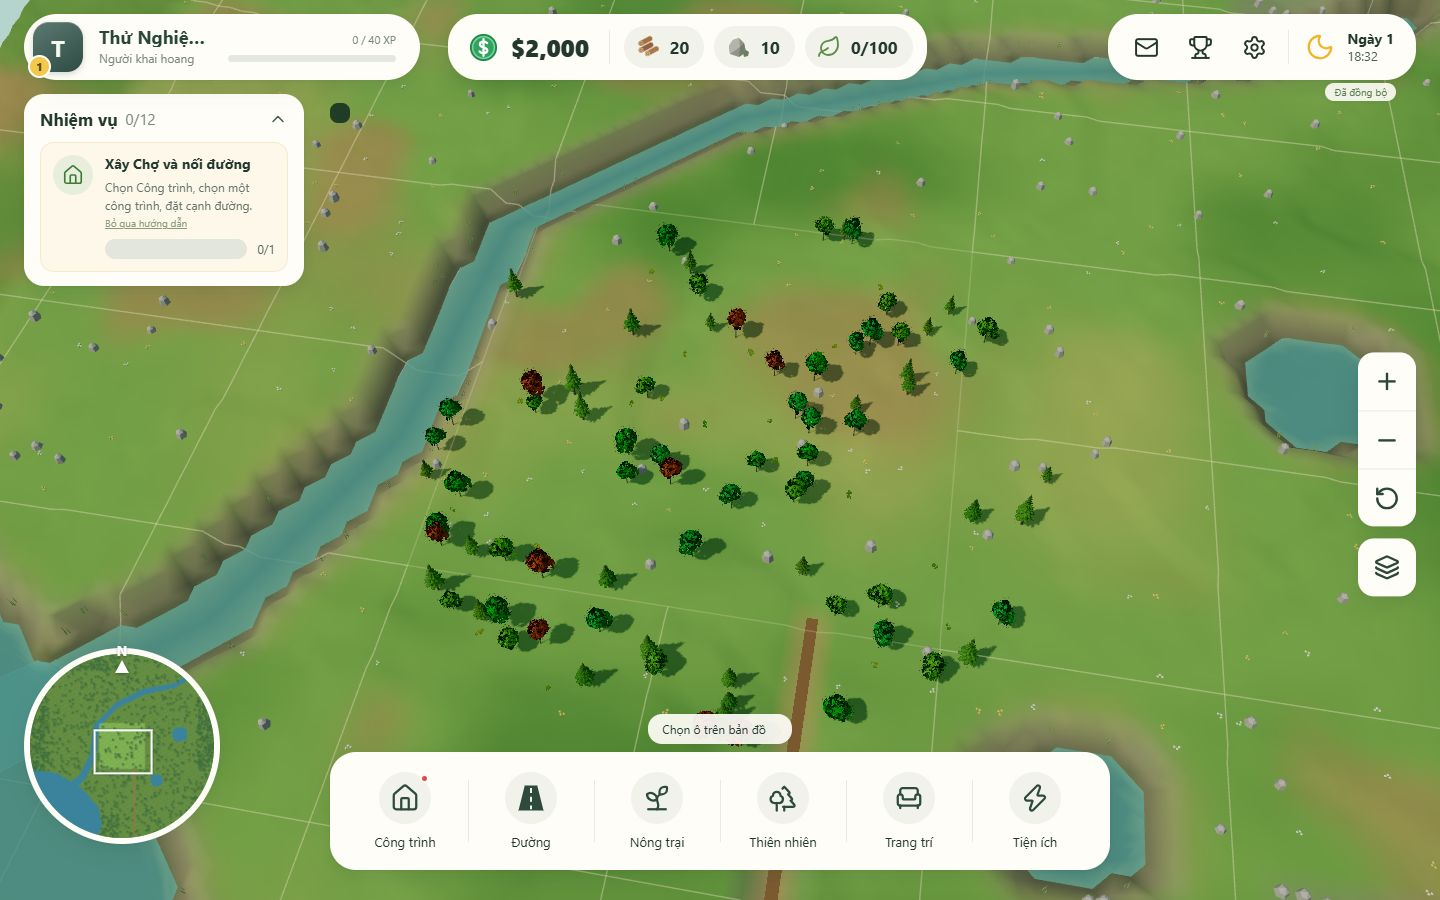
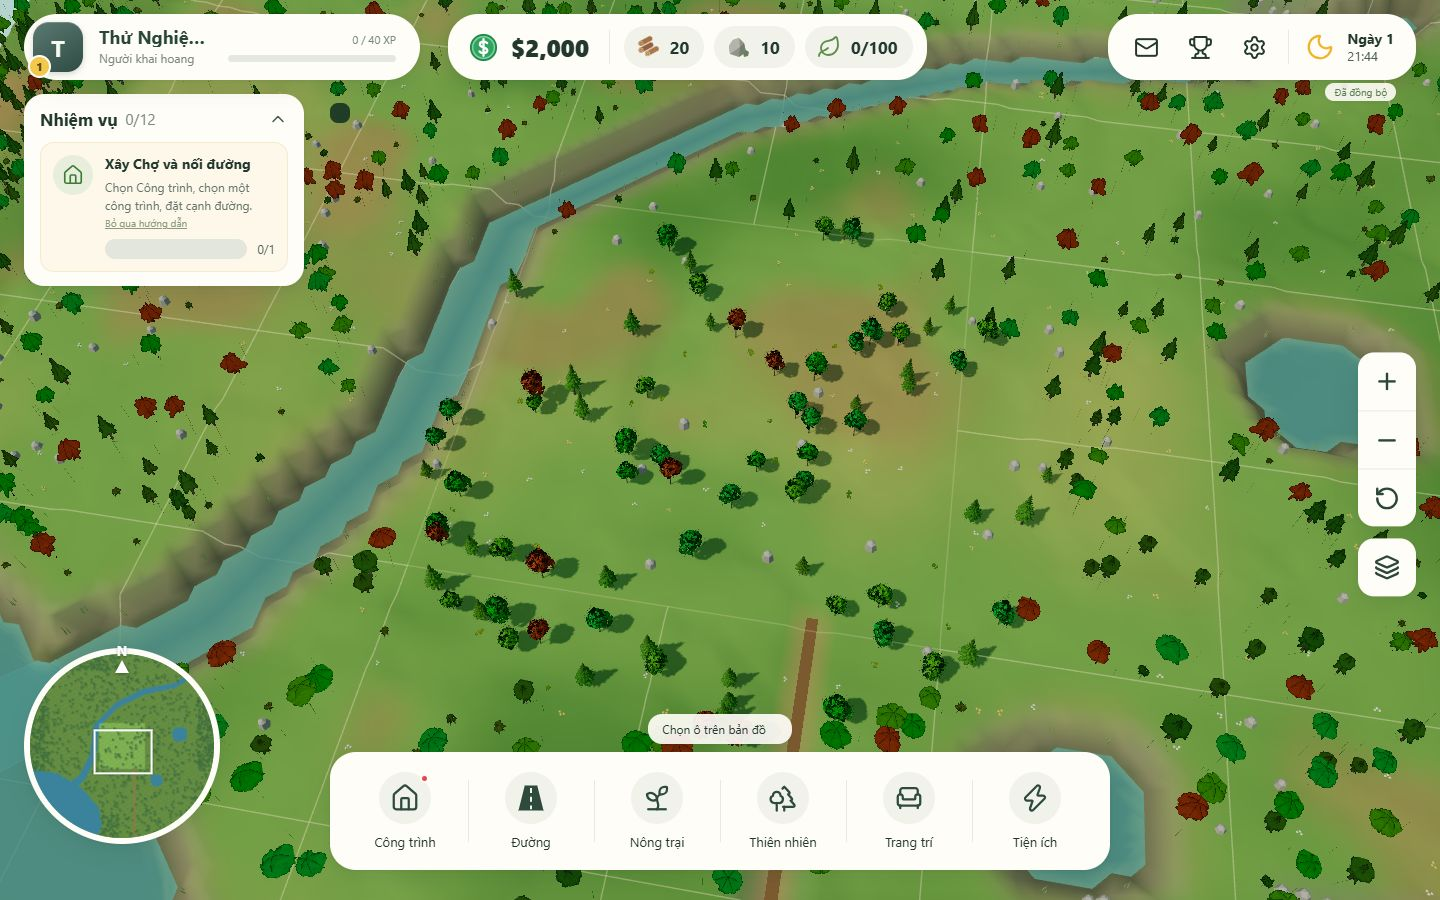
docs(d030): review — rebuild report sections 10-11, E2E evidence after fix 3
The fix 3 rewrite had dropped the fix 1-2 history, left section 11 empty, lost
punctuation to '?' and said fix 3 was not deployed. Rewritten from verified data:
root causes, coverage/brightness table across fixes, full-world budgets, byte-level
deploy check (local = docker = tunnel), full D030 commit list. G2 13/13 and G3 26/26
re-run after fix 3 (the fix rounds had not re-run them).

diff --git a/docs/reports/D030-trees.md b/docs/reports/D030-trees.md
@@ -138,23 +138,95 @@ Kiểm tra bằng mắt (mỗi kết luận kèm ảnh trong `docs/evidence/g4/t
   + nhãn trong game). Nếu thương mại hóa cần rà soát thêm về share-alike cho asset nhúng trong build game.
 - **Ngân sách city cao**: 241 calls / 534,874 tris — còn dư 59 calls / ~965k tris; nếu thêm nội dung môi trường
   cần giữ N=160/60 m hoặc hạ tam giác mức gần.
-- **Billboard từ trên cao** (pitch 75) mỏng — tradeoff của kỹ thuật 3 mặt phẳng đứng; nếu cần cải thiện: thêm 1
+- ~~**Billboard từ trên cao** (pitch 75) mỏng~~ — đã xử lý ở fix 2–3 (tấm ngang chụp từ trên, ẩn dần theo góc nhìn; mục 10). Ghi chú cũ: tradeoff của kỹ thuật 3 mặt phẳng đứng; nếu cần cải thiện: thêm 1
   mặt phẳng ngang với ảnh chụp từ trên (+2 tam giác).
 - **Đơn định**: capture billboard dùng Chrome + SwiftShader — nếu nâng Chrome lớn có thể lệch pixel → `--check`
   sẽ bắt và chỉ cần chạy lại import để làm mới.
 
+
+## 10. Sửa lỗi mức xa (fix 1 → fix 3)
+
+> Mục này được người review viết lại ngày 2026-10-11 sau khi bản fix 3 ghi đè mất nội dung fix 1–2, để trống mục 11
+> và còn sót ký tự hỏng. Mọi số liệu dưới đây đã được kiểm chứng lại trên máy (xem 10.4).
+
+### 10.1 Fix 1 — atlas mức xa trống (`c7c5194`, `1f81008`, `fc1a820`, `6f05d66`)
+
+- **Lỗi**: ngoài khoảng 160 cây mức gần quanh camera, rừng trên toàn map biến mất; ở đồ họa thấp (chỉ dùng mức xa)
+  mất gần hết cây. Báo cáo gốc (mục 1–5) đã ghi PASS sai cho phần này.
+- **Nguyên nhân gốc**: `captureBillboards` trong `scripts/import-trees.mjs` chỉ truyền `{ margin }` vào trang chụp,
+  trong khi trang dùng `light.elevationDeg`, nên góc ngẩng thành `NaN`, camera thành `NaN` và mọi ảnh chụp trống.
+  12 file `*_far.glb` chỉ nặng khoảng 2.872 byte. `--check` vẫn PASS vì script đơn định tái tạo đúng ảnh trống đó.
+- **Sửa**: truyền nguyên `PARAMETERS.capture`, `throw` khi tham số không hợp lệ; thêm cổng QC: mỗi tile độ phủ alpha
+  10–80%, ít nhất 2 màu, PNG ≥ 8 KB; thêm `scripts/tree-lod-qa.mjs` (chỉ số phủ cây far/near ≥ 0,6) và hook debug
+  `__debug.treeLod`, `__debug.envVisible`.
+- **Còn sót sau fix 1** (phát hiện khi review): farm `overview-75` far/near = **0,543 < 0,6 (FAIL)** nhưng không được
+  báo; bản sửa **chưa được deploy** (Docker và tunnel vẫn trả file 2.872 byte) dù báo cáo ghi đã deploy.
+
+### 10.2 Fix 2 — tấm ngang nhìn từ trên, atlas bụi nhỏ (`b0c4746`, `e8b3c81`, `44593f1`, `b6358ae`, `9b42243`, `b1a0807`, `baea1b1`)
+
+- Tile 3 của atlas (trước đây chép tile 0) dùng cho ảnh chụp từ trên xuống; mức xa thêm 1 tấm ngang ở 62% chiều cao
+  (6 → 8 tam giác, vẫn 1 draw call mỗi lô). Bụi mức xa dùng tile 128 px: khoảng 300 KB → 23 KB.
+- Chỉ số phủ far/near: city 0,944 / 1,153; farm 0,854 / 1,108 (4/4 PASS). Deploy đã xác minh theo byte.
+- **Còn sót sau fix 2** (phát hiện khi review): tấm ngang lộ thành hình "cái ô" hoặc "cây nấm" khi nhìn nghiêng; tán xa tối hơn hẳn
+  tán gần; mục 10 của báo cáo bị mất dấu tiếng Việt (ký tự thành `?`).
+
+### 10.3 Fix 3 — bỏ hiệu ứng "cái ô", khớp màu (`d2e74cd`, `34c07de`, `ed87070`, `53d9231`)
+
+- Tấm ngang ẩn hoặc hiện theo góc nhìn tới **từng instance** (`smoothstep` 40°–60°): nhìn nghiêng thì ẩn, nhìn từ trên thì hiện.
+- Nguyên nhân tán tối: billboard mức xa vẫn nhận ánh sáng của game trong khi texture đã chụp unlit, nên bị chiếu sáng hai lần.
+  Sửa: material mức xa chuyển sang unlit, RGB atlas nhân 0,62 để khớp độ sáng mức gần.
+- Thêm cổng QC độ sáng (chênh ≤ 15%) và sắc màu (chênh ≤ 20°) vào `tree-lod-qa.mjs`.
+
+| Bản đồ / góc | Phủ far/near (fix 1 → fix 2 → fix 3) | Độ sáng far / near | Chênh sáng | Chênh hue | Kết quả |
+|---|---|---:|---:|---:|---|
+| City oblique-45 | 0,728 → 0,944 → 0,787 | 63,3 / 70,6 | −10,3% | 1,9° | PASS |
+| City overview-75 | 0,614 → 1,153 → 1,087 | 73,2 / 82,1 | −10,9% | 0,0° | PASS |
+| Farm oblique-45 | 0,657 → 0,854 → 0,710 | 63,2 / 69,1 | −8,5% | 3,0° | PASS |
+| Farm overview-75 | **0,543 (FAIL)** → 1,108 → 1,057 | 69,1 / 75,9 | −9,0% | 0,9° | PASS |
+
+Ảnh bằng chứng: `docs/evidence/g4/trees/lod-zoom-40/110/220.jpg` (không còn hình "cái ô", ranh giới gần/xa khó nhận ra),
+`docs/evidence/g4/trees/lod-qa/{city,farm}-{oblique-45,overview-75}-{far,near}.png` (tán tròn, màu gần với mức gần).
+So sánh cùng góc trước D030: `git show e41bea2:docs/evidence/g4/full-world/farm-high-overview.jpg`.
+
+### 10.4 QA sau fix 3 (người review chạy lại trên máy)
+
+| # | Kiểm tra | Kết quả |
+|---|---|---|
+| 1 | `node scripts/import-trees.mjs --check` / `node scripts/import-model-pack.mjs --check` | PASS / PASS |
+| 2 | `pnpm check` | PASS — 725/725 test |
+| 3 | `pnpm test:api` / `g2-e2e` / `g3-e2e` | 33/33, 13/13, 26/26 PASS (E2E không được chạy lại trong các lượt fix; người review đã chạy lại sau fix 3) |
+| 4 | `tree-lod-qa.mjs` | 4/4 PASS (bảng 10.3) |
+| 5 | `g4-full-world.mjs` | mọi `checks` = true (bảng dưới) |
+| 6 | Mã hóa báo cáo | đọc bằng Node UTF-8, không còn ký tự hỏng |
+
+| Bản đồ × đồ họa (overview-75) | Draw call | Tam giác | FPS | p95 (ms) |
+|---|---:|---:|---:|---:|
+| City cao | 241 | 538.058 | 41 | 27,6 |
+| City thấp | 108 | 413.708 | 56 | 18,6 |
+| Farm cao | 251 | 271.914 | 57 | 19,3 |
+| Farm thấp | 104 | 137.478 | 55 | 29,9 |
+
+Ngân sách: desktop ≤ 300 draw call / 1,5M tam giác; đồ họa thấp ≤ 150 / 500k — đều đạt.
+
 ## 11. Commit và deploy nội bộ
 
+**Deploy fix 3** (smoke lúc 2026-10-11 14:29Z: G4 smoke PASS). Người review xác minh theo byte:
 
-## 10. D030-fix3 ? loại bỏ ?cái ô? và khớp màu
+| File | Local | Docker :8090 | Tunnel |
+|---|---:|---:|---:|
+| `env/tree_deciduous_01_far.glb` | 159.210 | 159.210 | 159.210 |
+| `env-by-sa/tree_conifer_01_far.glb` | 191.584 | 191.584 | 191.584 |
+| `env/bush_01_far.glb` | 21.739 | 21.739 | 21.739 |
+| Bundle JS | `index-CAy8ge0Q.js` | cùng | cùng |
 
-**Kết quả: PASS.** Quad ngang fade theo góc nhìn từng instance bằng smoothstep 40?60°. Billboard far chuyển sang unlit; RGB atlas nhân 0,62 để khớp mức sáng near. Nguyên nhân tối trước đó là far vẫn nhận ánh sáng game trong khi texture bake đã unlit.
+Tunnel trả 404 cho `/_glb-viewer.html`.
 
-| Map/góc | Coverage far/near | Sáng far/near | Chênh sáng | Chênh hue | Kết quả |
-|---|---:|---:|---:|---:|---|
-| City oblique-45 | 0,787 | 63,38 / 70,63 | -10,3% | 1,7° | PASS |
-| City overview-75 | 1,084 | 73,34 / 82,21 | -10,8% | 0,2° | PASS |
-| Farm oblique-45 | 0,710 | 63,15 / 69,05 | -8,5% | 3,0° | PASS |
-| Farm overview-75 | 1,057 | 69,09 / 75,94 | -9,0% | 0,9° | PASS |
+**Danh sách commit D030**
 
-Tất cả đạt coverage >=0,6, chênh sáng <=15% và hue <=20°. QA tree-lod 4/4 PASS; deploy fix3 chưa chạy. Kiểm tra UTF-8 bằng Node PASS, không có replacement character.
+| Đợt | Commit |
+|---|---|
+| Gốc | `8e702ef` tree import script, config · `5a0c873` tree/bush GLBs, manifest and credits · `a27a0fd` near/far tree LOD, wind, credits panel + tests · `2aff8c6` evidence, decision and report · `f941436` block the debug GLB viewer in nginx · `0b32e0d` final smoke evidence |
+| Fix 1 | `c7c5194` pass capture elevation; alpha-coverage QC gate · `1f81008` rebuild far billboards · `fc1a820` far-LOD coverage QA script and debug hook · `6f05d66` corrected report |
+| Fix 2 | `b0c4746` top-down canopy quad; smaller bush atlas · `e8b3c81` rebuild far billboards with top view · `44593f1` far-LOD size and top-tile checks · `b6358ae`, `9b42243`, `b1a0807`, `baea1b1` report, deploy and smoke evidence |
+| Fix 3 | `d2e74cd` fade the far canopy quad by view angle; match far/near tone · `34c07de` far/near brightness gate · `ed87070` fix 3 report, evidence and deploy verification · `53d9231` record tone-matched far asset sizes |
+| Review | commit sửa báo cáo này (mục 10–11, ảnh E2E sau fix 3) |
